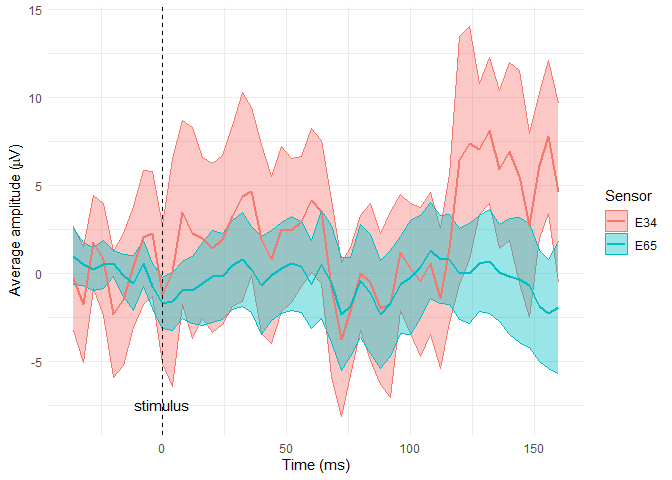
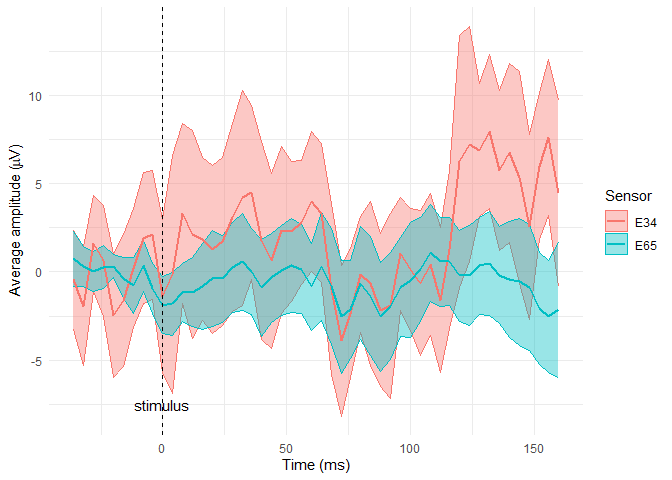
Fix bugs - rewrite baseline_range = 1:9, fix parameters in outliers_epoch().

diff --git a/README.md b/README.md
@@ -139,7 +139,7 @@ bounds (use plot_time_mean conditioned by sensor)
 edata <- epochdata |>
   pick_data(subject_rg = 2, sensor_rg = c("E34", "E65"), epoch_rg = 1:13)
 # baseline correction
-data_base <- baseline_correction(edata, baseline_range = 1:10)
+data_base <- baseline_correction(edata, baseline_range = 1:9)
 # compute average
 data_mean <- data_base |> 
   compute_mean(amplitude = "signal_base", type = "point", domain = "time")
